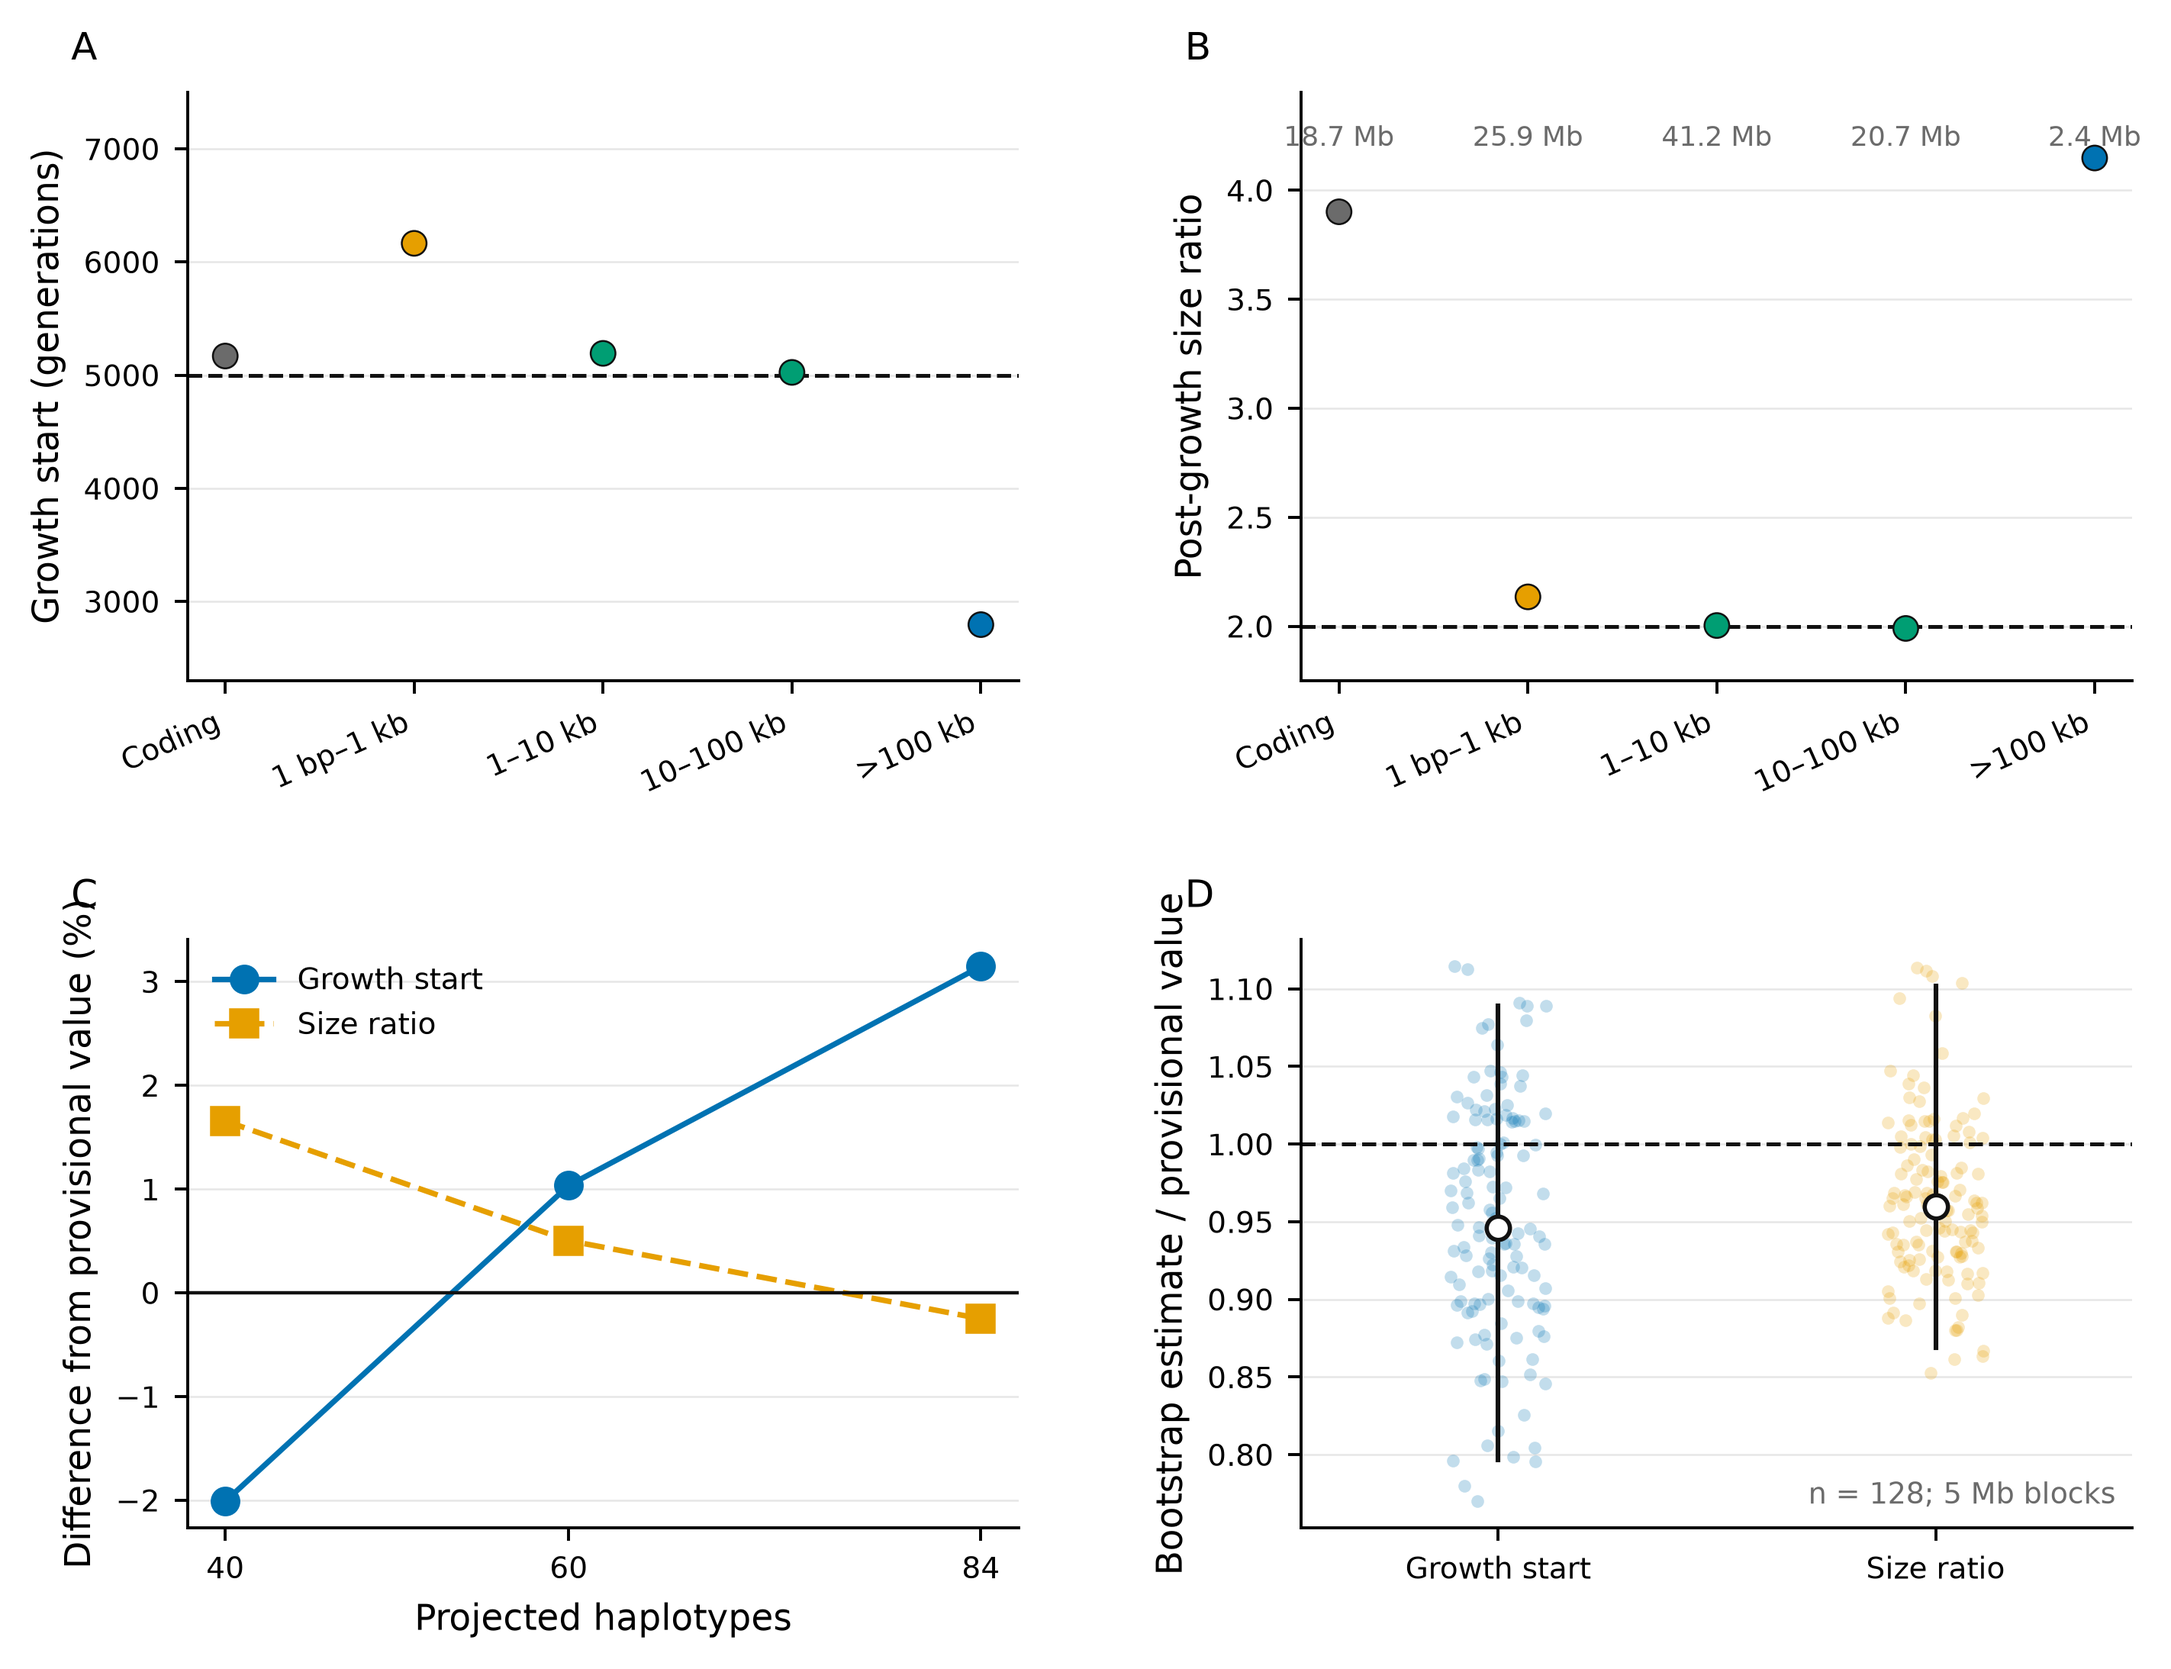
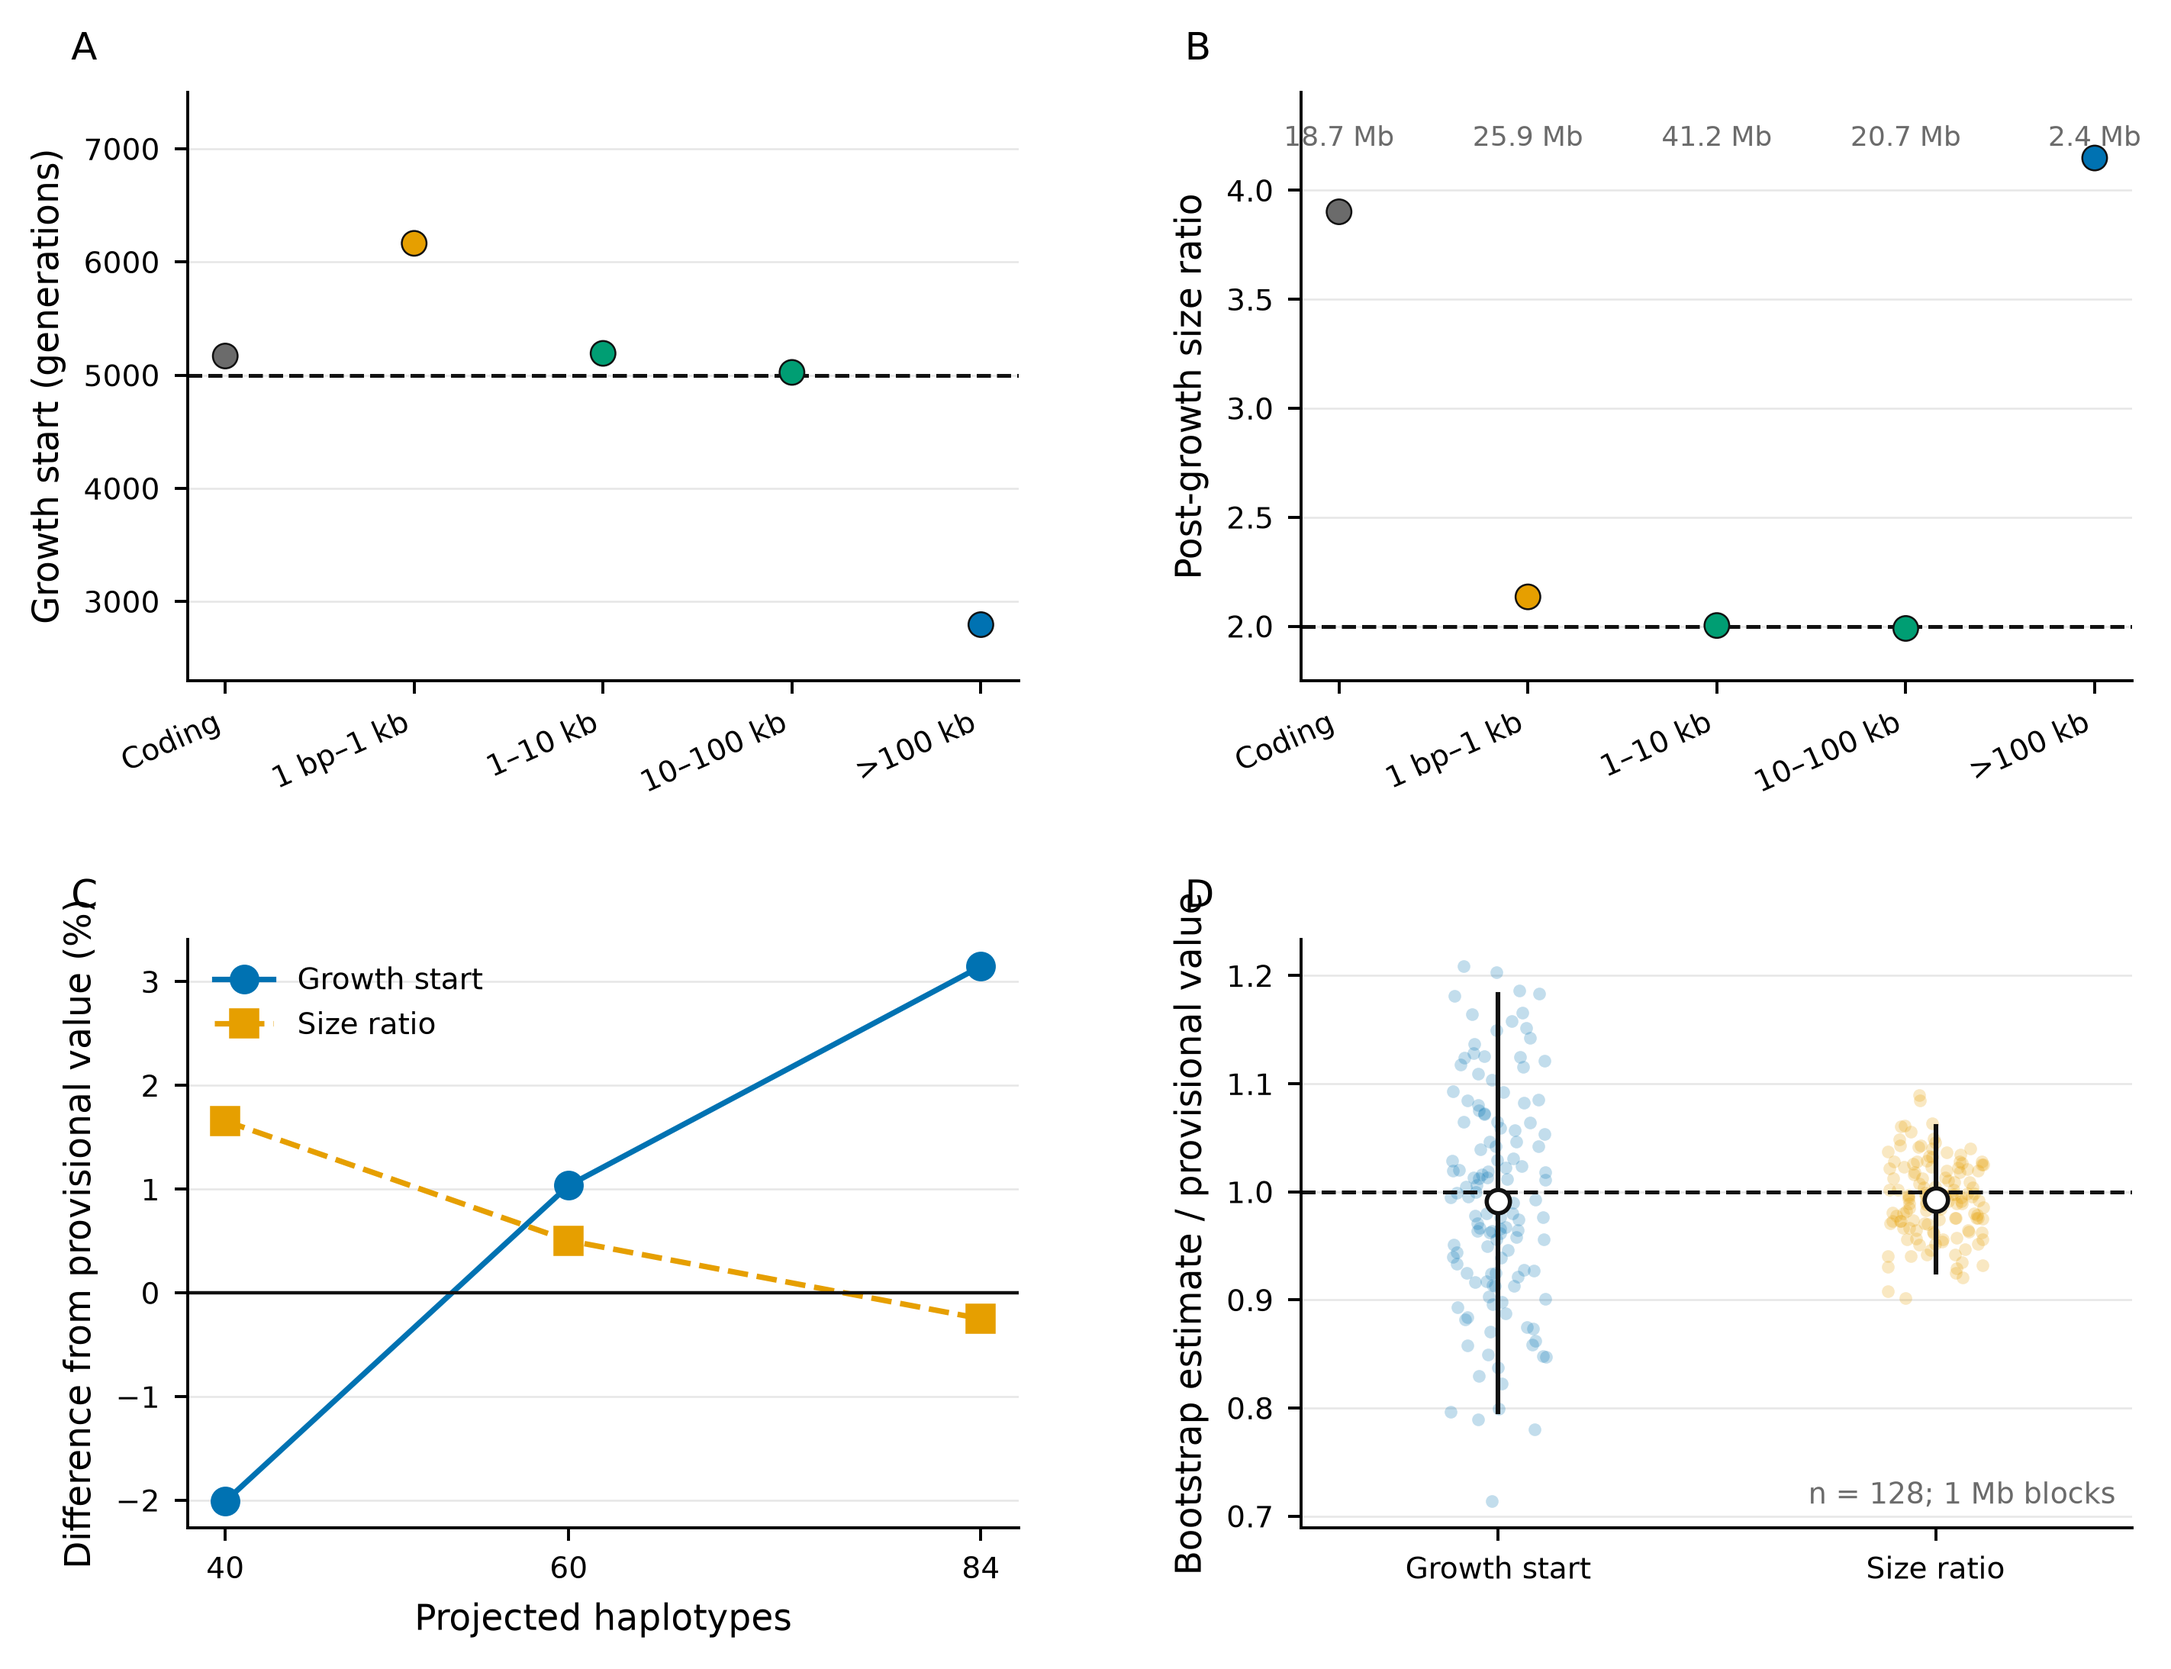
Confirm growth block stability

Changed region(s): [[0.6186, 0.5908, 0.7733, 0.9017], [0.5258, 0.5286, 0.5877, 0.9639], [0.8042, 0.5597, 0.9589, 0.8084]]

diff --git a/scripts/plot_growth_bgs_validation.py b/scripts/plot_growth_bgs_validation.py
@@ -51,6 +51,7 @@ def main() -> None:
     parser.add_argument("--middle-summary", type=Path, required=True)
     parser.add_argument("--audit-summary", type=Path, required=True)
     parser.add_argument("--bootstrap-dir", type=Path, required=True)
+    parser.add_argument("--block-label", default="5 Mb blocks")
     parser.add_argument("--out-prefix", type=Path, required=True)
     args = parser.parse_args()
     style()
@@ -170,7 +171,7 @@ def main() -> None:
     ax_d.text(
         0.98,
         0.03,
-        "n = 128; 5 Mb blocks",
+        f"n = 128; {args.block_label}",
         transform=ax_d.transAxes,
         ha="right",
         va="bottom",

diff --git a/experiments/growth_bgs/README.md b/experiments/growth_bgs/README.md
@@ -37,6 +37,12 @@ terminal partial blocks were excluded from resampling, which shifted its center
 relative to the all-base point estimate. A 1 Mb repeat is therefore required to
 reduce this edge imbalance while remaining conservative for linkage.
 
+The completed 1 Mb repeat in job `7746623` uses 108 complete blocks. Its 128
+replicates are correctly centered: medians are 4,956 generations and 1.985-fold
+growth, and means are 4,963 and 1.987. The respective 95% intervals are
+3,984–5,913 and 1.851–2.122. This removes the edge-driven center shift while
+retaining linked-block uncertainty.
+
 Forward-selection validation is pinned to stdpopsim 0.3.0, its Drosophila
 `Gamma_H17` deleterious DFE, the `ComeronCrossoverV2_dm6` map, pyslim 1.0.4,
 and SLiM 4.3 commit `f872f3d`. The stack was built and verified in job
@@ -60,6 +66,6 @@ model also has the higher likelihood on the known-truth simulation, although
 the 462 kb smoke provides only a 0.24 log-likelihood separation.
 
 `figures/task3_growth_bgs/task3_validation.{pdf,png}` visualizes the current
-distance-band bias, middle-distance projection stability, and all 128 linked
-block replicates. It is a validation figure rather than a frozen-result figure
-and will be regenerated after the 1 Mb repeat and forward-selection recovery.
+distance-band bias, middle-distance projection stability, and all 128 one-Mb
+linked-block replicates. It is a validation figure rather than a frozen-result
+figure and will be regenerated after the forward-selection recovery grid.
